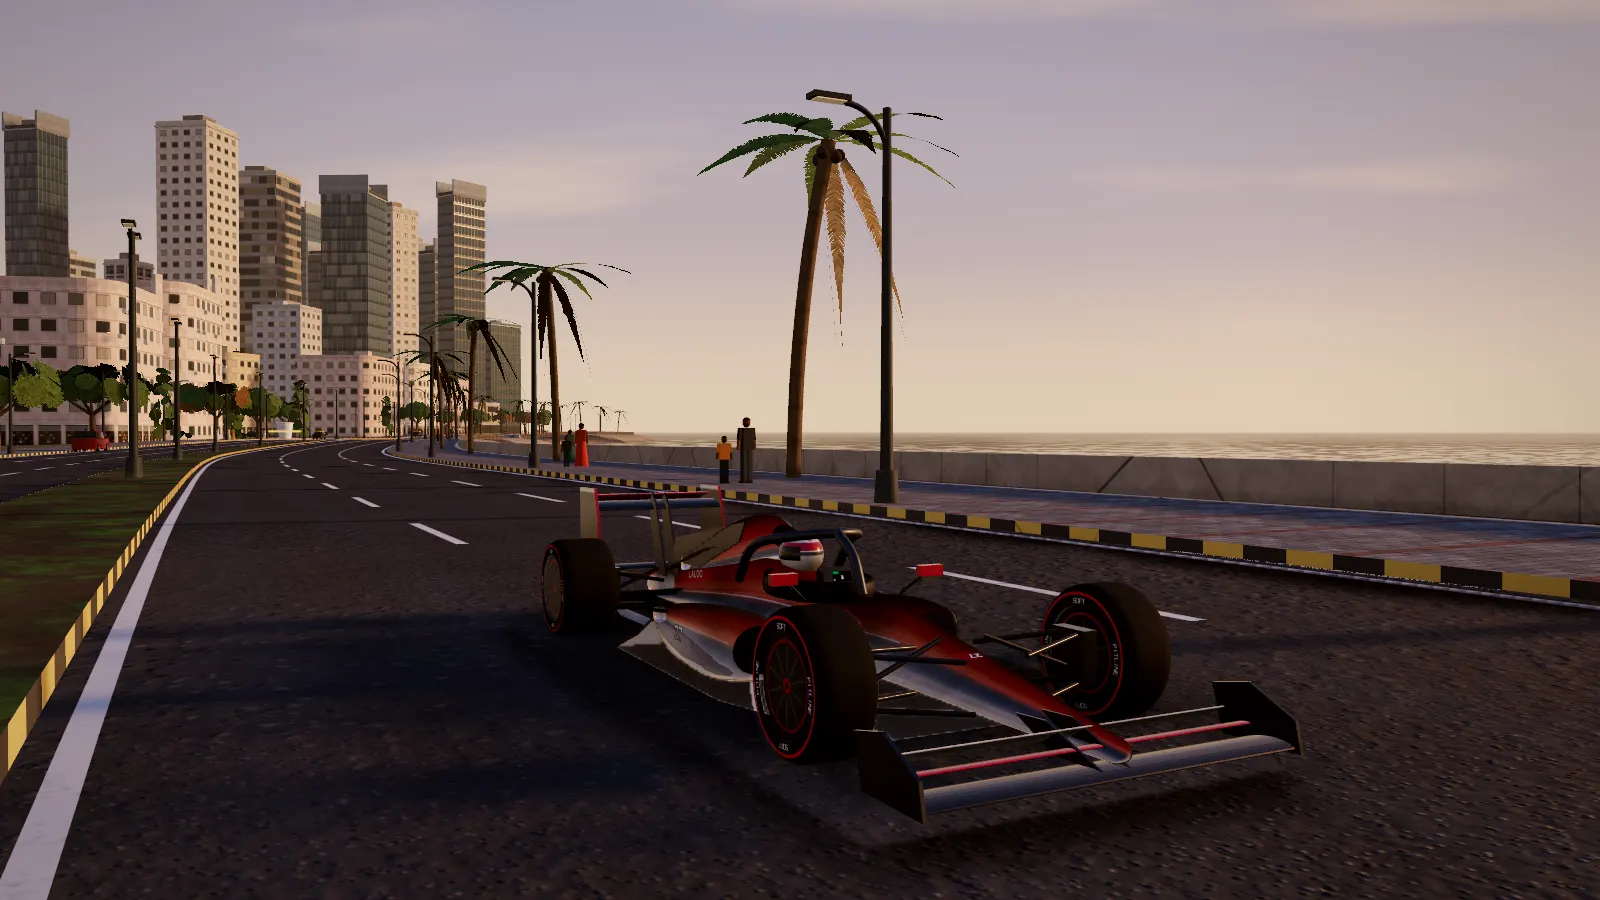
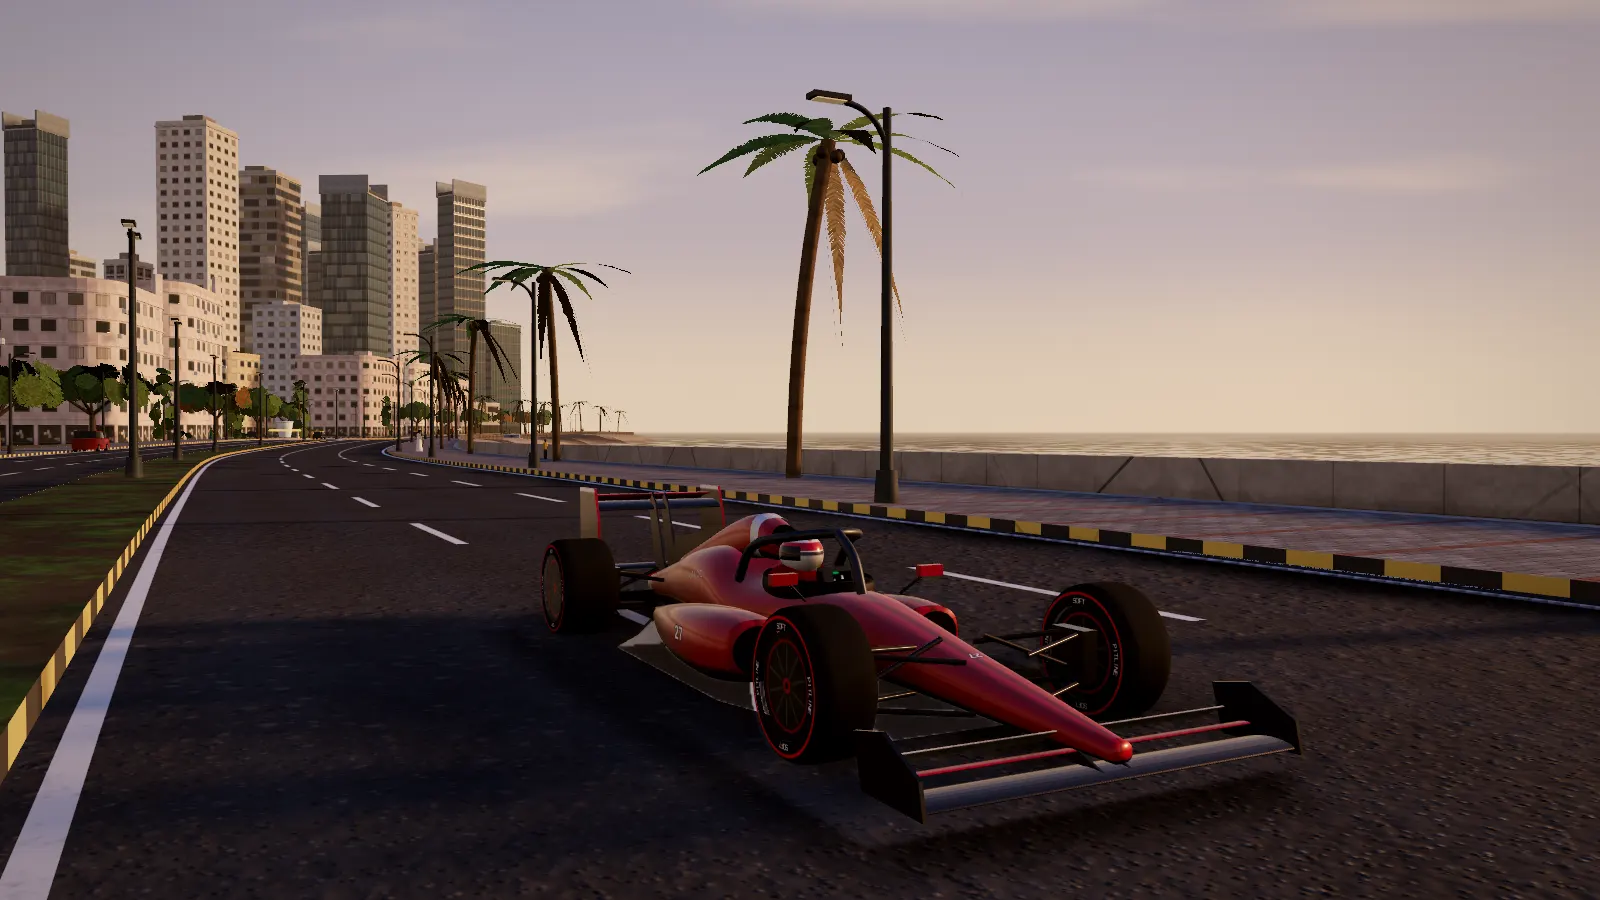
Mumbai GP: fix inside-out car bodywork, shadow offsets, steadier resolution, people placement
- The lofted bodywork (monocoque, sidepods, airbox) was wound inside-out, so
  the camera saw the inner floor and its dark lower-flank paint: the car read
  almost black from above. Faces and caps now point outward; the rosso
  livery shows from every angle.
- Shadow normal offsets scaled to each cascade's texel size (no acne at low
  golden-hour sun angles).
- Adaptive resolution ignores one-off hitches, returns to full resolution at
  vsync, and waits before retrying after a step down.
- Pedestrians keep clear of monuments, stalls, lamp posts and each other;
  pairs face each other.
- Chowpatty stalls: counters under faded tarpaulin awnings; Marine Drive Deco
  buildings get glazed ground floors instead of shopfronts; calmer shop goods;
  stars only at full night.
- Previews recaptured.

Claude-Session: https://claude.ai/code/session_01R3orstBXDgi5d4mRQ7dYN1

diff --git a/src/mumbai/props.js b/src/mumbai/props.js
@@ -655,6 +655,19 @@ export function buildProps(ctx) {
   for (const sk of SKIN.slice(0, 2)) for (const k of ['man', 'woman']) people.push(new Chunked(personGeometry(k, sk), vmat, { cast: true }));
   people.push(new Chunked(personGeometry('kid', SKIN[2]), vmat, { cast: true }));
   let nPeople = 0;
+  /** true if nothing solid (walls, posts, landmark footprints, stalls, other people) is within r metres. */
+  const freeSpot = (x, z, y, r) => {
+    let ok = true;
+    colliders.query(x, z, r + 1, o => {
+      if (!ok || y < o.y0 - 1 || y > o.y1 + 1) return;
+      if (o.t === 0) {
+        const dx = o.bx - o.ax, dz = o.bz - o.az, l2 = dx * dx + dz * dz || 1;
+        let t = ((x - o.ax) * dx + (z - o.az) * dz) / l2; t = t < 0 ? 0 : t > 1 ? 1 : t;
+        if (Math.hypot(x - o.ax - dx * t, z - o.az - dz * t) < r) ok = false;
+      } else if (Math.hypot(x - o.x, z - o.z) < o.r + r) ok = false;
+    });
+    return ok;
+  };
   const addPerson = (x, z, y, ry) => {
     const i = Math.floor(R() * people.length);
     people[i].add(mtx(x, y, z, ry, 0.92 + R() * 0.14), C.set(CLOTH[Math.floor(R() * CLOTH.length)]));
@@ -674,8 +687,11 @@ export function buildProps(ctx) {
         // along Marine Drive people face the sea; elsewhere they stroll along the footpath
         const along = Math.atan2(r.tx[i], r.tz[i]) + (R() < 0.5 ? 0 : Math.PI);
         const ry = sea && R() < 0.6 ? Math.atan2(r.tz[i] * side, -r.tx[i] * side) + (R() - 0.5) * 0.8 : along + (R() - 0.5) * 0.6;
+        if (!freeSpot(x, z, r.h[i], 0.7)) continue;
         addPerson(x, z, r.h[i] + 0.16, ry);
-        if (R() < 0.35) addPerson(x + Math.cos(ry) * 0.6, z - Math.sin(ry) * 0.6, r.h[i] + 0.16, ry + Math.PI + (R() - 0.5));   // chatting in pairs
+        // some chat in pairs, facing each other
+        const bx = x + Math.sin(ry) * 0.85, bz = z + Math.cos(ry) * 0.85;
+        if (R() < 0.35 && freeSpot(bx, bz, r.h[i], 0.5)) addPerson(bx, bz, r.h[i] + 0.16, ry + Math.PI + (R() - 0.5) * 0.4);
       }
     }
   }
@@ -684,7 +700,9 @@ export function buildProps(ctx) {
       const a = R() * Math.PI * 2, rr = inner + Math.sqrt(R()) * (rad - inner), x = px + Math.cos(a) * rr, z = pz + Math.sin(a) * rr;
       if (occAt(x, z) || landSD(x, z) < 2) continue;
       const nr = net.nearestRoad(x, z, 25); if (nr && nr.d < nr.road.T.hw + 0.6) continue;
-      addPerson(x, z, terr.heightAt(x, z), R() * Math.PI * 2);
+      const y = terr.heightAt(x, z);
+      if (!freeSpot(x, z, y, 2.2)) continue;            // clear of monuments, stalls, fountains and each other
+      addPerson(x, z, y, R() * Math.PI * 2);
     }
   }
   for (const ch of people) ch.build(group);

diff --git a/src/mumbai/facades.js b/src/mumbai/facades.js
@@ -30,7 +30,7 @@ export const DIMS = {
 };
 /* style → [upper layer, ground-floor layer (−1: none), ground floor has shop variants] */
 const STYLE_LAYERS = {
-  [STYLE.roof]: [L.roof, -1], [STYLE.residential]: [L.resA, L.shopA], [STYLE.glass]: [L.glass, L.lobby], [STYLE.deco]: [L.deco, L.shopA],
+  [STYLE.roof]: [L.roof, -1], [STYLE.residential]: [L.resA, L.shopA], [STYLE.glass]: [L.glass, L.lobby], [STYLE.deco]: [L.deco, L.shopB],
   [STYLE.heritage]: [L.heritage, L.arcade], [STYLE.office]: [L.office, L.lobby], [STYLE.chawl]: [L.chawl, L.shopA], [STYLE.industrial]: [L.industrial, -1],
   [STYLE.bungalow]: [L.bungalow, -1], [STYLE.tiles]: [L.tiles, -1], [STYLE.plain]: [L.plain, -1], [STYLE.balcony]: [L.resB, L.shopA],
   [STYLE.stone]: [L.heritage, -1], [STYLE.lobby]: [L.lobby, -1], [STYLE.plainStone]: [L.stone, -1], [STYLE.shop]: [L.shopA, L.shopA], [STYLE.arcade]: [L.arcade, L.arcade],
@@ -207,7 +207,7 @@ const LAYER_PAINT = {
     const r = rng(7);
     for (let i = 0; i < 26; i++) {                                                      // shelves of goods
       const gx = x0 + 0.1 + r() * (x1 - x0 - 0.4), gy = 0.5 + Math.floor(r() * 4) * 0.42, w = 0.12 + r() * 0.3;
-      p.rect(gx, gy, w, 0.2 + r() * 0.12, { c: ['#8a3b2f', '#c49a3c', '#3c6a8a', '#d7d0c0', '#5b7a3a', '#a85a32'][i % 6], g: 0.6 });
+      p.rect(gx, gy, w, 0.2 + r() * 0.12, { c: ['#6e4a40', '#9c8a62', '#55636c', '#b9b2a4', '#5f6650', '#8a6a52'][i % 6], g: 0.6 });
     }
     for (let k = 0; k < 4; k++) p.rect(x0, 0.45 + k * 0.42, x1 - x0, 0.03, { c: '#4a4038', g: 0.6 });
     p.gradRect(x0, 0, x1 - x0, top, 0, top, [[0, 'rgba(0,0,0,0.0)'], [1, 'rgba(0,0,0,0.45)']]);
@@ -226,7 +226,7 @@ const LAYER_PAINT = {
     p.rect(x0 + 0.06, 0.06, x1 - x0 - 0.12, 0.38, { c: '#3a3836', t: 0, h: 0.3, r: 0.6 });
     p.rect((bw - 0.06) / 2, 0, 0.06, top, { c: '#262a2c', h: 0.4 });
     const r = rng(9);
-    for (let i = 0; i < 10; i++) p.rect(x0 + 0.2 + r() * (x1 - x0 - 0.6), 0.5 + r() * 1.2, 0.2 + r() * 0.25, 0.25 + r() * 0.4, { c: ['#c8b89a', '#7f2f2a', '#e6e0d4', '#3d5a74'][i % 4], g: 1, r: 0.5 });
+    for (let i = 0; i < 10; i++) p.rect(x0 + 0.2 + r() * (x1 - x0 - 0.6), 0.5 + r() * 1.2, 0.2 + r() * 0.25, 0.25 + r() * 0.4, { c: ['#b8ab92', '#6d4a40', '#d6d0c4', '#4a5866'][i % 4], g: 1, r: 0.5 });
     p.rect(0, 0, bw, 0.1, { c: '#77736c', t: 0, h: 0.6, r: 0.9 });
   },
   [L.arcade](p, bw, fh) {         // Fort colonnade: round arches in stone, shaded walkway

diff --git a/src/mumbai/landmarks.js b/src/mumbai/landmarks.js
@@ -356,15 +356,19 @@ export function buildLandmarks(ctx) {
 
   /* =============== Girgaum Chowpatty stalls =============== */
   {
-    const cols = [0xd8432f, 0x2f7fd8, 0xe8b33c, 0x2fa86b, 0xd83f8a, 0xf07c2a];
+    // food stalls: whitewashed counters under faded tarpaulin awnings on poles
+    const tarps = [0x8e3a2e, 0x3e5f7a, 0xa8843e, 0x3f6b55, 0x7e4658, 0x9a5e36].map(c => new THREE.MeshStandardMaterial({ color: c, roughness: 0.85, side: THREE.DoubleSide }));
+    const counter = new THREE.MeshStandardMaterial({ color: 0xe2dccf, roughness: 0.85 });
     for (let k = 0; k < 7; k++) {
       const x = -300 + k * 13, z = 352 + Math.sin(k) * 4;
       const gy = terr.heightAt(x, z);
       if (gy < 0.4) continue;
-      add(box(3.4, 2.2, 2.4), new THREE.MeshStandardMaterial({ color: 0xece6da, roughness: 0.8 }), x, gy + 1.1, z);
-      const c = add(new THREE.ConeGeometry(3, 1.2, 4), new THREE.MeshStandardMaterial({ color: cols[k % cols.length], roughness: 0.7 }), x, gy + 2.8, z, Math.PI / 4);
-      c.scale.set(1, 1, 0.8);
-      colliders.box(x, z, 1.7, 1.2, 0, gy - 1, gy + 3);
+      add(box(3.4, 1.1, 1.6), counter, x, gy + 0.55, z);
+      add(box(3.2, 0.9, 0.12), counter, x, gy + 1.5, z - 0.7);                  // back board
+      for (const sx of [-1.6, 1.6]) for (const sz of [-0.9, 0.9]) add(new THREE.CylinderGeometry(0.04, 0.04, 2.6, 6), steel, x + sx, gy + 1.3, z + sz, 0, false);
+      const t = add(box(3.9, 0.05, 2.6), tarps[k % tarps.length], x, gy + 2.62, z);
+      t.rotation.x = -0.12;
+      colliders.box(x, z, 1.7, 0.9, 0, gy - 1, gy + 3);
     }
   }
 

diff --git a/src/mumbai/atmosphere.js b/src/mumbai/atmosphere.js
@@ -141,9 +141,9 @@ void main() {
   float disc = smoothstep( 0.99965, 0.99985, cosT ) * uSunVis * step( -0.01, y );
   col += uSunCol * disc * ( uEnv > 0.5 ? 2.0 : 14.0 );
   // stars
-  if ( uNight > 0.5 && y > 0.05 && uEnv < 0.5 ) {
+  if ( uNight > 0.8 && y > 0.05 && uEnv < 0.5 ) {
     vec2 sp = d.xz / ( y + 1.0 ) * 380.0;
-    float s = step( 0.9965, h21( floor( sp ) ) ) * smoothstep( 0.05, 0.35, y );
+    float s = step( 0.9965, h21( floor( sp ) ) ) * smoothstep( 0.05, 0.35, y ) * smoothstep( 0.8, 1.0, uNight );
     col += vec3( 0.55, 0.6, 0.75 ) * s * 0.6;
   }
   gl_FragColor = vec4( col, 1.0 );
@@ -218,6 +218,7 @@ export class Atmosphere {
     }
     this.sun.castShadow = true;
     this.sun.shadow.mapSize.set(size, size);
+    this.sun.shadow.normalBias = 140 / size * 1.5;
     this.sun.shadow.camera.layers.mask = 3;
   }
 
@@ -308,5 +309,11 @@ export class Atmosphere {
     camera.fov = Math.min(110, Math.max(f, fov, portrait)); camera.updateProjectionMatrix();
     this.csm.updateFrustums();
     camera.fov = f; camera.far = far; camera.updateProjectionMatrix();
+    // offset receivers along their normal by ~1.5 shadow texels of their cascade: removes acne on
+    // surfaces at grazing sun angles (car bodywork, roofs at golden hour) without detaching shadows
+    for (const l of this.csm.lights) {
+      const c = l.shadow.camera, texel = (c.right - c.left) / l.shadow.mapSize.x;
+      l.shadow.normalBias = texel * 1.5; l.shadow.bias = -0.00005;
+    }
   }
 }

diff --git a/src/core/post.js b/src/core/post.js
@@ -89,11 +89,14 @@ export async function createPipeline(renderer, scene, camera, Q) {
   };
   /** Adaptive resolution: call once per frame with the frame time (ms). */
   P.adapt = (ms, dt) => {
-    P.frameAvg = P.frameAvg * 0.92 + ms * 0.08;
-    P.adaptT += dt;
-    if (P.adaptT < 1.5) return;
-    if (P.frameAvg > 24 && P.scale > P.minScale) { P.scale = Math.max(P.minScale, P.scale - 0.1); P.adaptT = 0; P.applyScale(); }
-    else if (P.frameAvg < 14 && P.scale < 1) { P.scale = Math.min(1, P.scale + 0.1); P.adaptT = 0; P.applyScale(); }
+    // clamp single hitches (shader compiles, tab switches) so they don't trigger a downgrade
+    P.frameAvg = P.frameAvg * 0.92 + Math.min(ms, 45) * 0.08;
+    P.adaptT += dt; P.clock = (P.clock || 0) + dt;
+    if (P.adaptT < 2) return;
+    // down when clearly under ~40 fps; back up when holding vsync (60 Hz ≈ 16.7 ms) again
+    // (after a step down, wait 15 s before trying the higher resolution again, to avoid see-sawing)
+    if (P.frameAvg > 25 && P.scale > P.minScale) { P.scale = Math.max(P.minScale, P.scale - 0.1); P.adaptT = 0; P.holdUntil = P.clock + 15; P.applyScale(); }
+    else if (P.frameAvg < 18.5 && P.scale < 1 && P.clock > (P.holdUntil || 0)) { P.scale = Math.min(1, P.scale + 0.1); P.adaptT = 0; P.applyScale(); }
   };
   P.render = t => {
     if (P.aoCam) {

diff --git a/src/core/geo.js b/src/core/geo.js
@@ -47,8 +47,9 @@ export function loft(sections, { radial = 28, sub = 4, capStart = true, capEnd =
     for (let j = 0; j < radial; j++) {
       const a = i * R + j, b = a + 1, c = a + R, d = c + 1;
       // sections run from front (high z) to back; keep faces pointing outward
-      if (rings[i].z > rings[i + 1].z) idx.push(a, b, c, b, d, c);
-      else idx.push(a, c, b, b, c, d);
+      // (the angle runs bottom → +x → top, i.e. counter-clockwise seen from +z)
+      if (rings[i].z > rings[i + 1].z) idx.push(a, c, b, b, c, d);
+      else idx.push(a, b, c, b, d, c);
     }
   }
   const addCap = (ri, flip) => {
@@ -57,7 +58,7 @@ export function loft(sections, { radial = 28, sub = 4, capStart = true, capEnd =
     pos.push(r.xc, r.yc, r.z); uv.push(0.5, ri ? 1 : 0);
     for (let j = 0; j < radial; j++) {
       const a = ri * R + j, b = a + 1;
-      if (flip) idx.push(ci, a, b); else idx.push(ci, b, a);
+      if (flip) idx.push(ci, b, a); else idx.push(ci, a, b);
     }
   };
   const forward = rings[0].z > rings[rings.length - 1].z;
